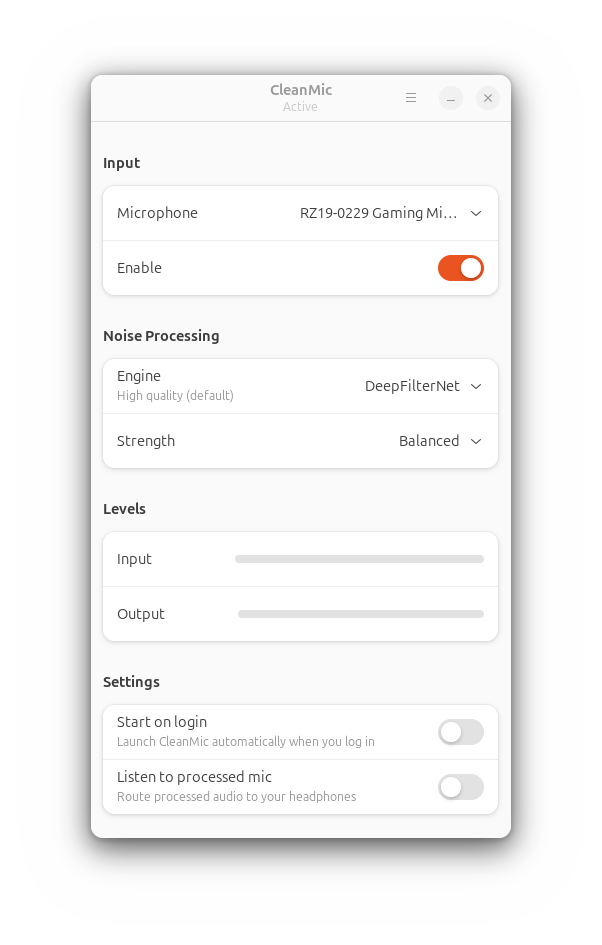
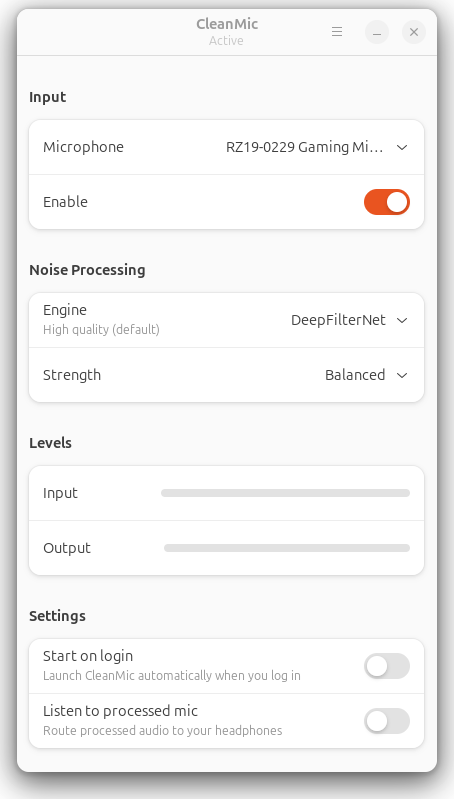
polish README and release notes after first public review
- Fix strength control wording: it's a Light/Balanced/Strong dropdown,
  not a Low/Medium/High slider (the ComboRow in src/ui/window.rs)
- Drop the Khip 1-2s noise-profile detail (end users don't need it)
- Drop the auto-update-check bullet (implementation detail, not a
  selling point)
- Drop the 'stereo' qualifier on the monitor feature (end users
  don't care about the channel count)
- Drop the French translation bullet
- Move the 'enable it and forget about it' message up into the
  tagline so it hits in the first paragraph
- Simplify the Support section: drop the tier price list and the
  'what the money covers' paragraph, leave just the sponsor links
- Trim excess transparent padding + soft drop-shadow halo from the
  screenshot (602x945 -> 454x799, fuzz 10%)

diff --git a/README.md b/README.md
@@ -4,7 +4,7 @@
 
 <h1 align="center">CleanMic</h1>
 
-<p align="center">Noise-free virtual microphone for Linux. Select your mic, enable CleanMic, and every app hears clean audio.</p>
+<p align="center">Noise-free virtual microphone for Linux. It's dead simple: select your mic, enable CleanMic, and every app on your system hears clean audio. Enable it and forget about it.</p>
 
 <p align="center">
   <img src="assets/screenshot.png" alt="CleanMic main window">
@@ -12,17 +12,14 @@
 
 ## Features
 
-- **Three noise suppression engines, pre-tuned out of the box** - pick the one you like; no fiddling with DSP parameters:
-  - **DeepFilterNet** (default) - modern neural model, high-quality output with no robotic artefacts
+- **Three noise suppression engines** with pre-tuned defaults:
+  - **DeepFilterNet** (default) - modern neural model, high-quality output
   - **RNNoise** - lightweight classic RNN denoiser, low CPU
-  - **Khip** - adaptive model (user-supplied library), locks onto your noise profile over 1–2 s
-- **A Low / Medium / High strength slider that actually means something** - tuned per-engine against real noise (fan, keyboard, mouse); each step is a distinct audible change on all three engines, not just a cosmetic label
-- **Automatic update check** - quiet in-app banner, desktop notification, and tray indicator when a new release ships; fails silently if offline
-- **Stereo monitor** - route processed mic to both ears when you want to hear what the app hears
+  - **Khip** - adaptive model (user-supplied library)
+- **Light / Balanced / Strong strength dropdown** - tuned per-engine against real noise (fan, keyboard, mouse); each step is a distinct audible change on all three engines
 - Works with any app through a PipeWire virtual microphone source (Teams, Meet, Discord, Zoom)
 - System tray integration with quick enable / disable
-- French translation included
-- Feels like a system utility - enable it and forget about it
+- Monitor - route processed mic back to your headphones when you want to hear what the app hears
 
 ## Download
 
@@ -30,10 +27,10 @@
 2. Download `CleanMic-x86_64.AppImage`
 3. Make it executable and run:
 
-```bash
-chmod +x CleanMic-x86_64.AppImage
-./CleanMic-x86_64.AppImage
-```
+    ```bash
+    chmod +x CleanMic-x86_64.AppImage
+    ./CleanMic-x86_64.AppImage
+    ```
 
 > Thanks for trying CleanMic. If it's useful to you, you can [sponsor on GitHub](https://github.com/sponsors/claude-gagne) or [buy a coffee](https://buymeacoffee.com/claudegagne).
 
@@ -63,12 +60,10 @@ make appimage
 
 ## Support
 
-CleanMic is built in the hours around a day job. If it saves you time on calls, you can help keep it maintained:
+CleanMic is built in the hours around a day job. If it helps you out, you can help keep it maintained:
 
-- **[GitHub Sponsors](https://github.com/sponsors/claude-gagne)** - monthly or one-time, $3 / $10 / $25 tiers
-- **[Buy Me a Coffee](https://buymeacoffee.com/claudegagne)** - one-time $3 per coffee
-
-What the money covers: AppImage build infrastructure, investigating bug reports, testing against new mic hardware, and ongoing maintenance between day-job hours.
+- [GitHub Sponsors](https://github.com/sponsors/claude-gagne)
+- [Buy Me a Coffee](https://buymeacoffee.com/claudegagne)
 
 No paywalled features. No ads. No nagware in the app. Ever.
 

diff --git a/RELEASE_NOTES.md b/RELEASE_NOTES.md
@@ -1,18 +1,17 @@
 CleanMic v1.0.0 - a noise-free virtual microphone for Linux.
 
-CleanMic is a small desktop app for Ubuntu, Fedora, and other modern Linux distributions. Select your physical microphone, enable CleanMic, and every app on your system - Teams, Meet, Discord, Zoom, OBS - hears clean audio through a single PipeWire virtual source. It feels like a system utility: enable it and forget about it.
+CleanMic is a small desktop app for Ubuntu, Fedora, and other modern Linux distributions. It's dead simple: select your physical microphone, enable CleanMic, and every app on your system (Teams, Meet, Discord, Zoom, OBS) hears clean audio through a single PipeWire virtual source. Enable it and forget about it.
 
 ## What's in v1.0.0
 
-- **Three noise suppression engines, pre-tuned out of the box** - pick the one you like; no fiddling with DSP parameters:
-  - **DeepFilterNet** (default) - modern neural model, high-quality output with no robotic artefacts
+- **Three noise suppression engines** with pre-tuned defaults:
+  - **DeepFilterNet** (default) - modern neural model, high-quality output
   - **RNNoise** - lightweight classic RNN denoiser, low CPU
-  - **Khip** - adaptive model (user-supplied library), locks onto your noise profile over 1–2 s
-- **A Low / Medium / High strength slider that actually means something** - tuned per-engine against real noise (fan, keyboard, mouse); each step is a distinct audible change on all three engines, not just a cosmetic label
-- **Automatic update check** - quiet in-app banner, desktop notification, and tray indicator when a new release ships; fails silently if offline
-- **Stereo monitor** - route processed mic to both ears when you want to hear what the app hears
-- **System tray integration** - quick enable / disable without opening the main window
-- **French translation included**
+  - **Khip** - adaptive model (user-supplied library)
+- **Light / Balanced / Strong strength dropdown** - tuned per-engine against real noise (fan, keyboard, mouse); each step is a distinct audible change on all three engines
+- Works with any app through a PipeWire virtual microphone source
+- System tray integration with quick enable / disable
+- Monitor - route processed mic back to your headphones when you want to hear what the app hears
 
 ## System Requirements
 
